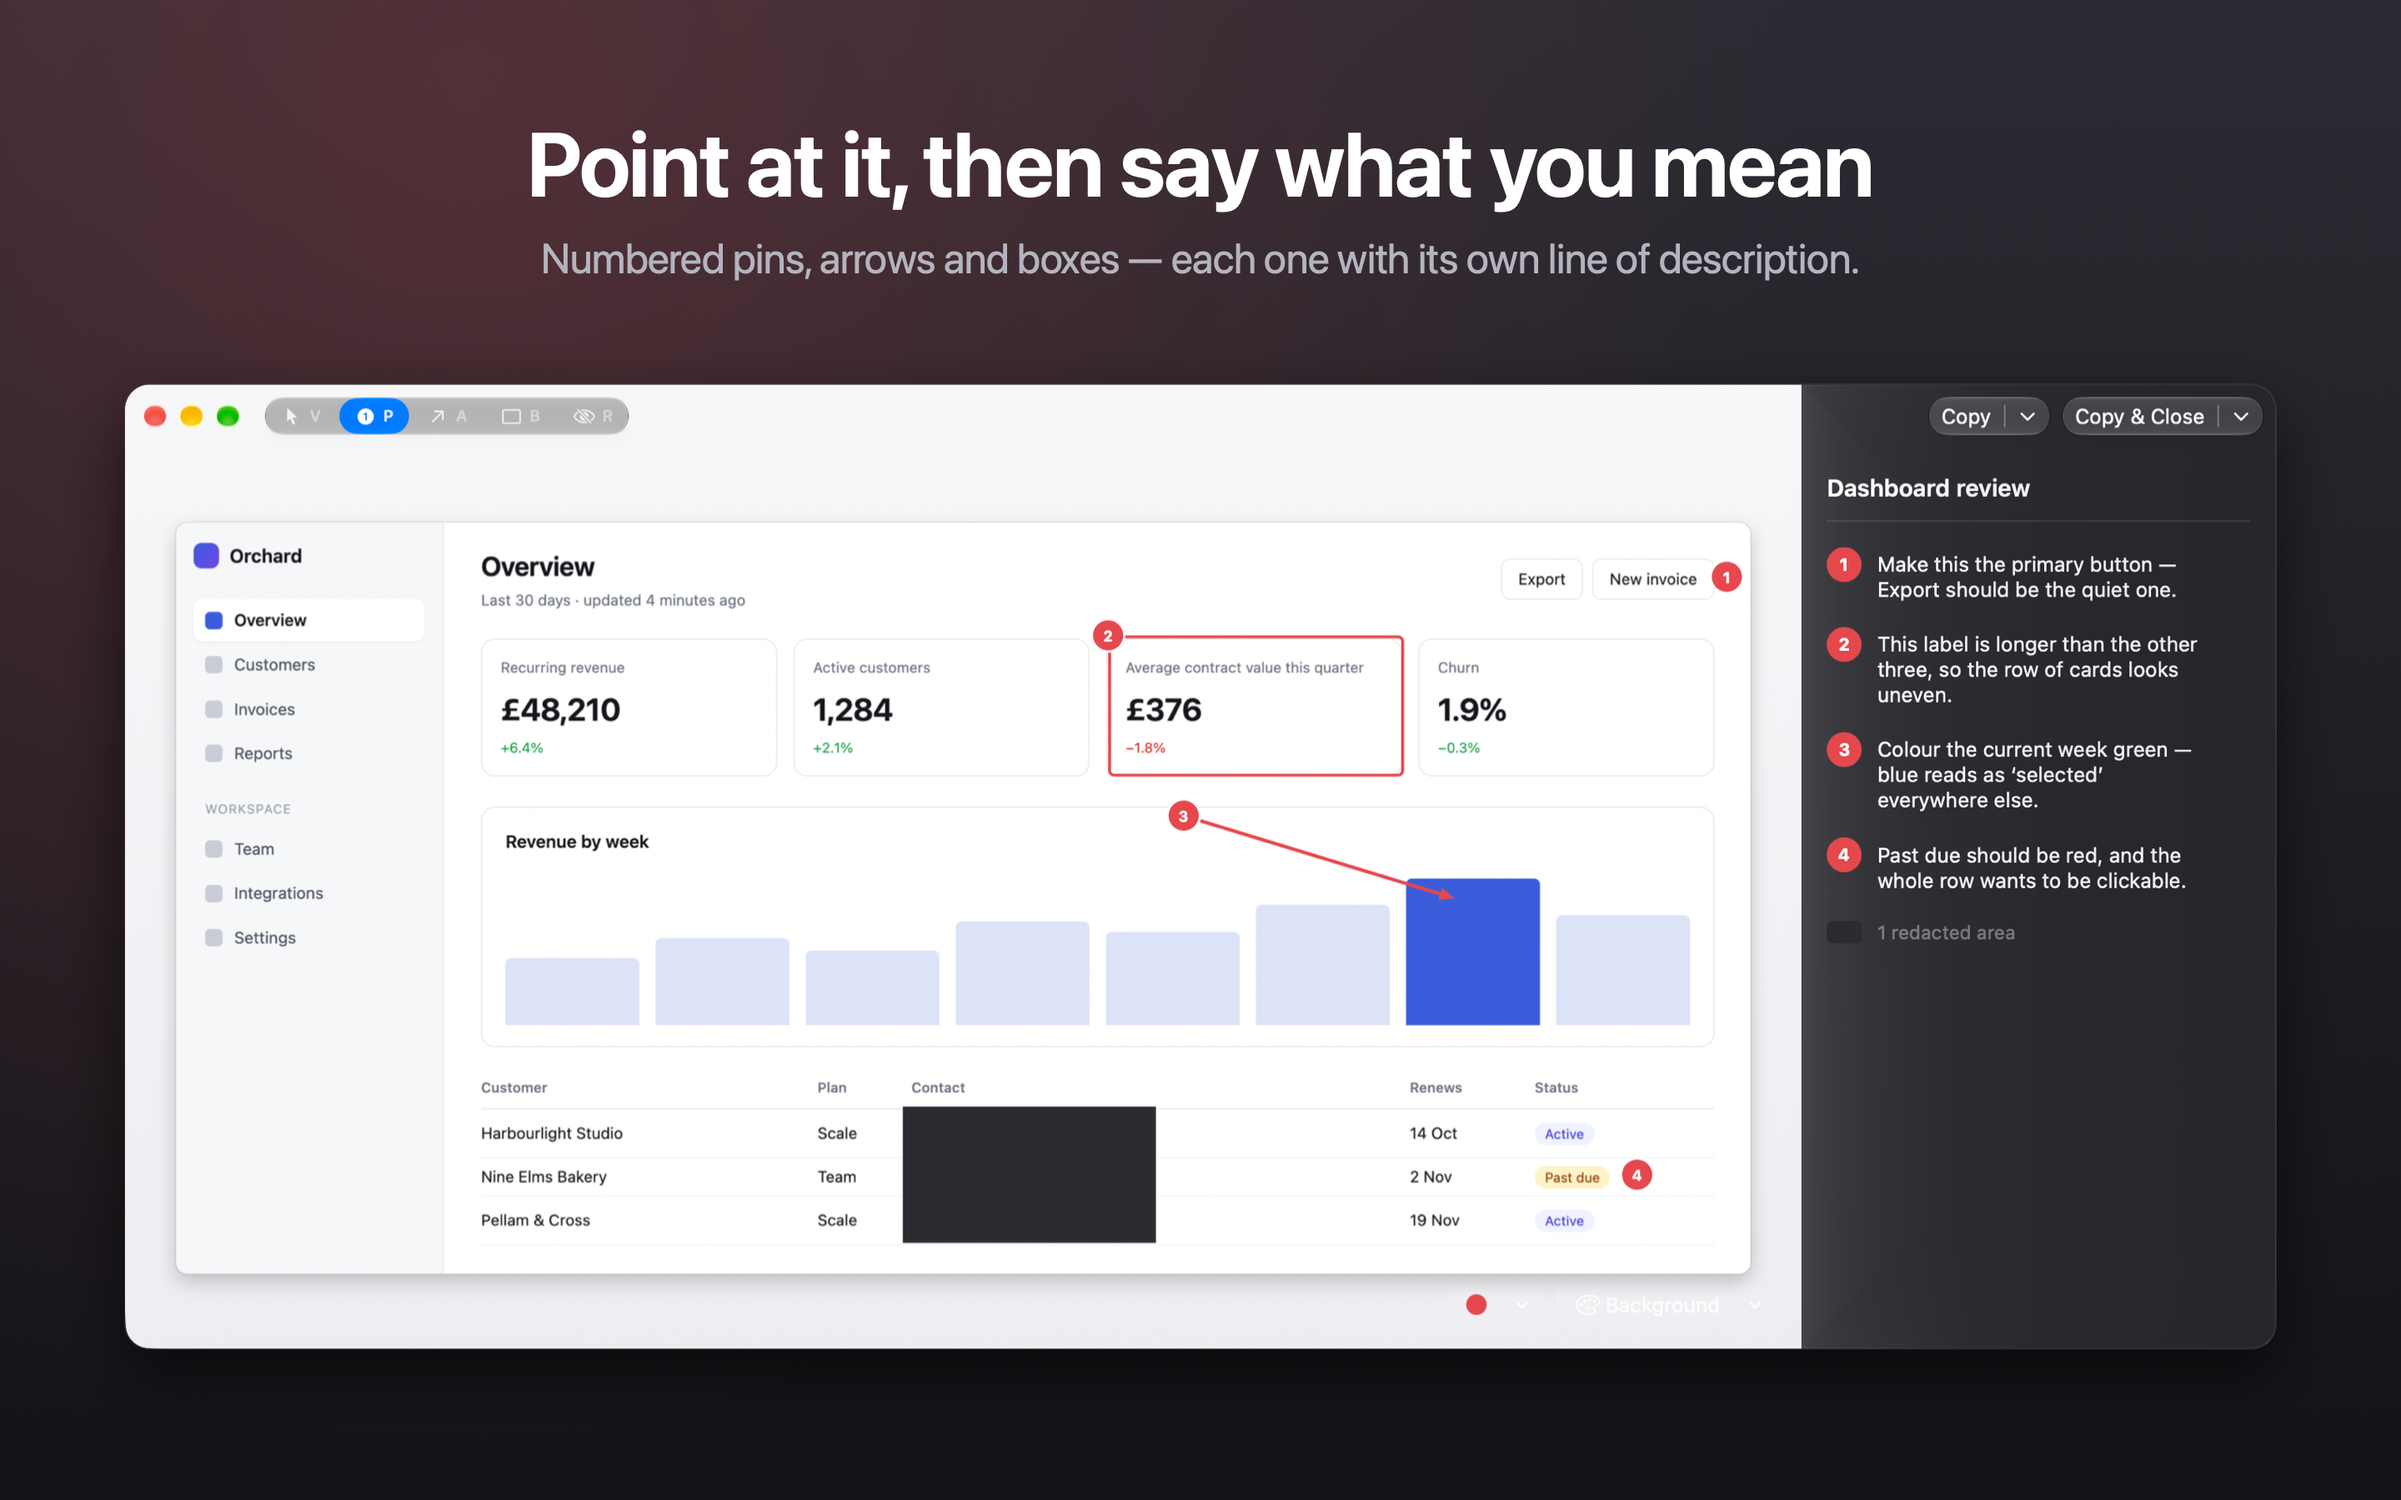
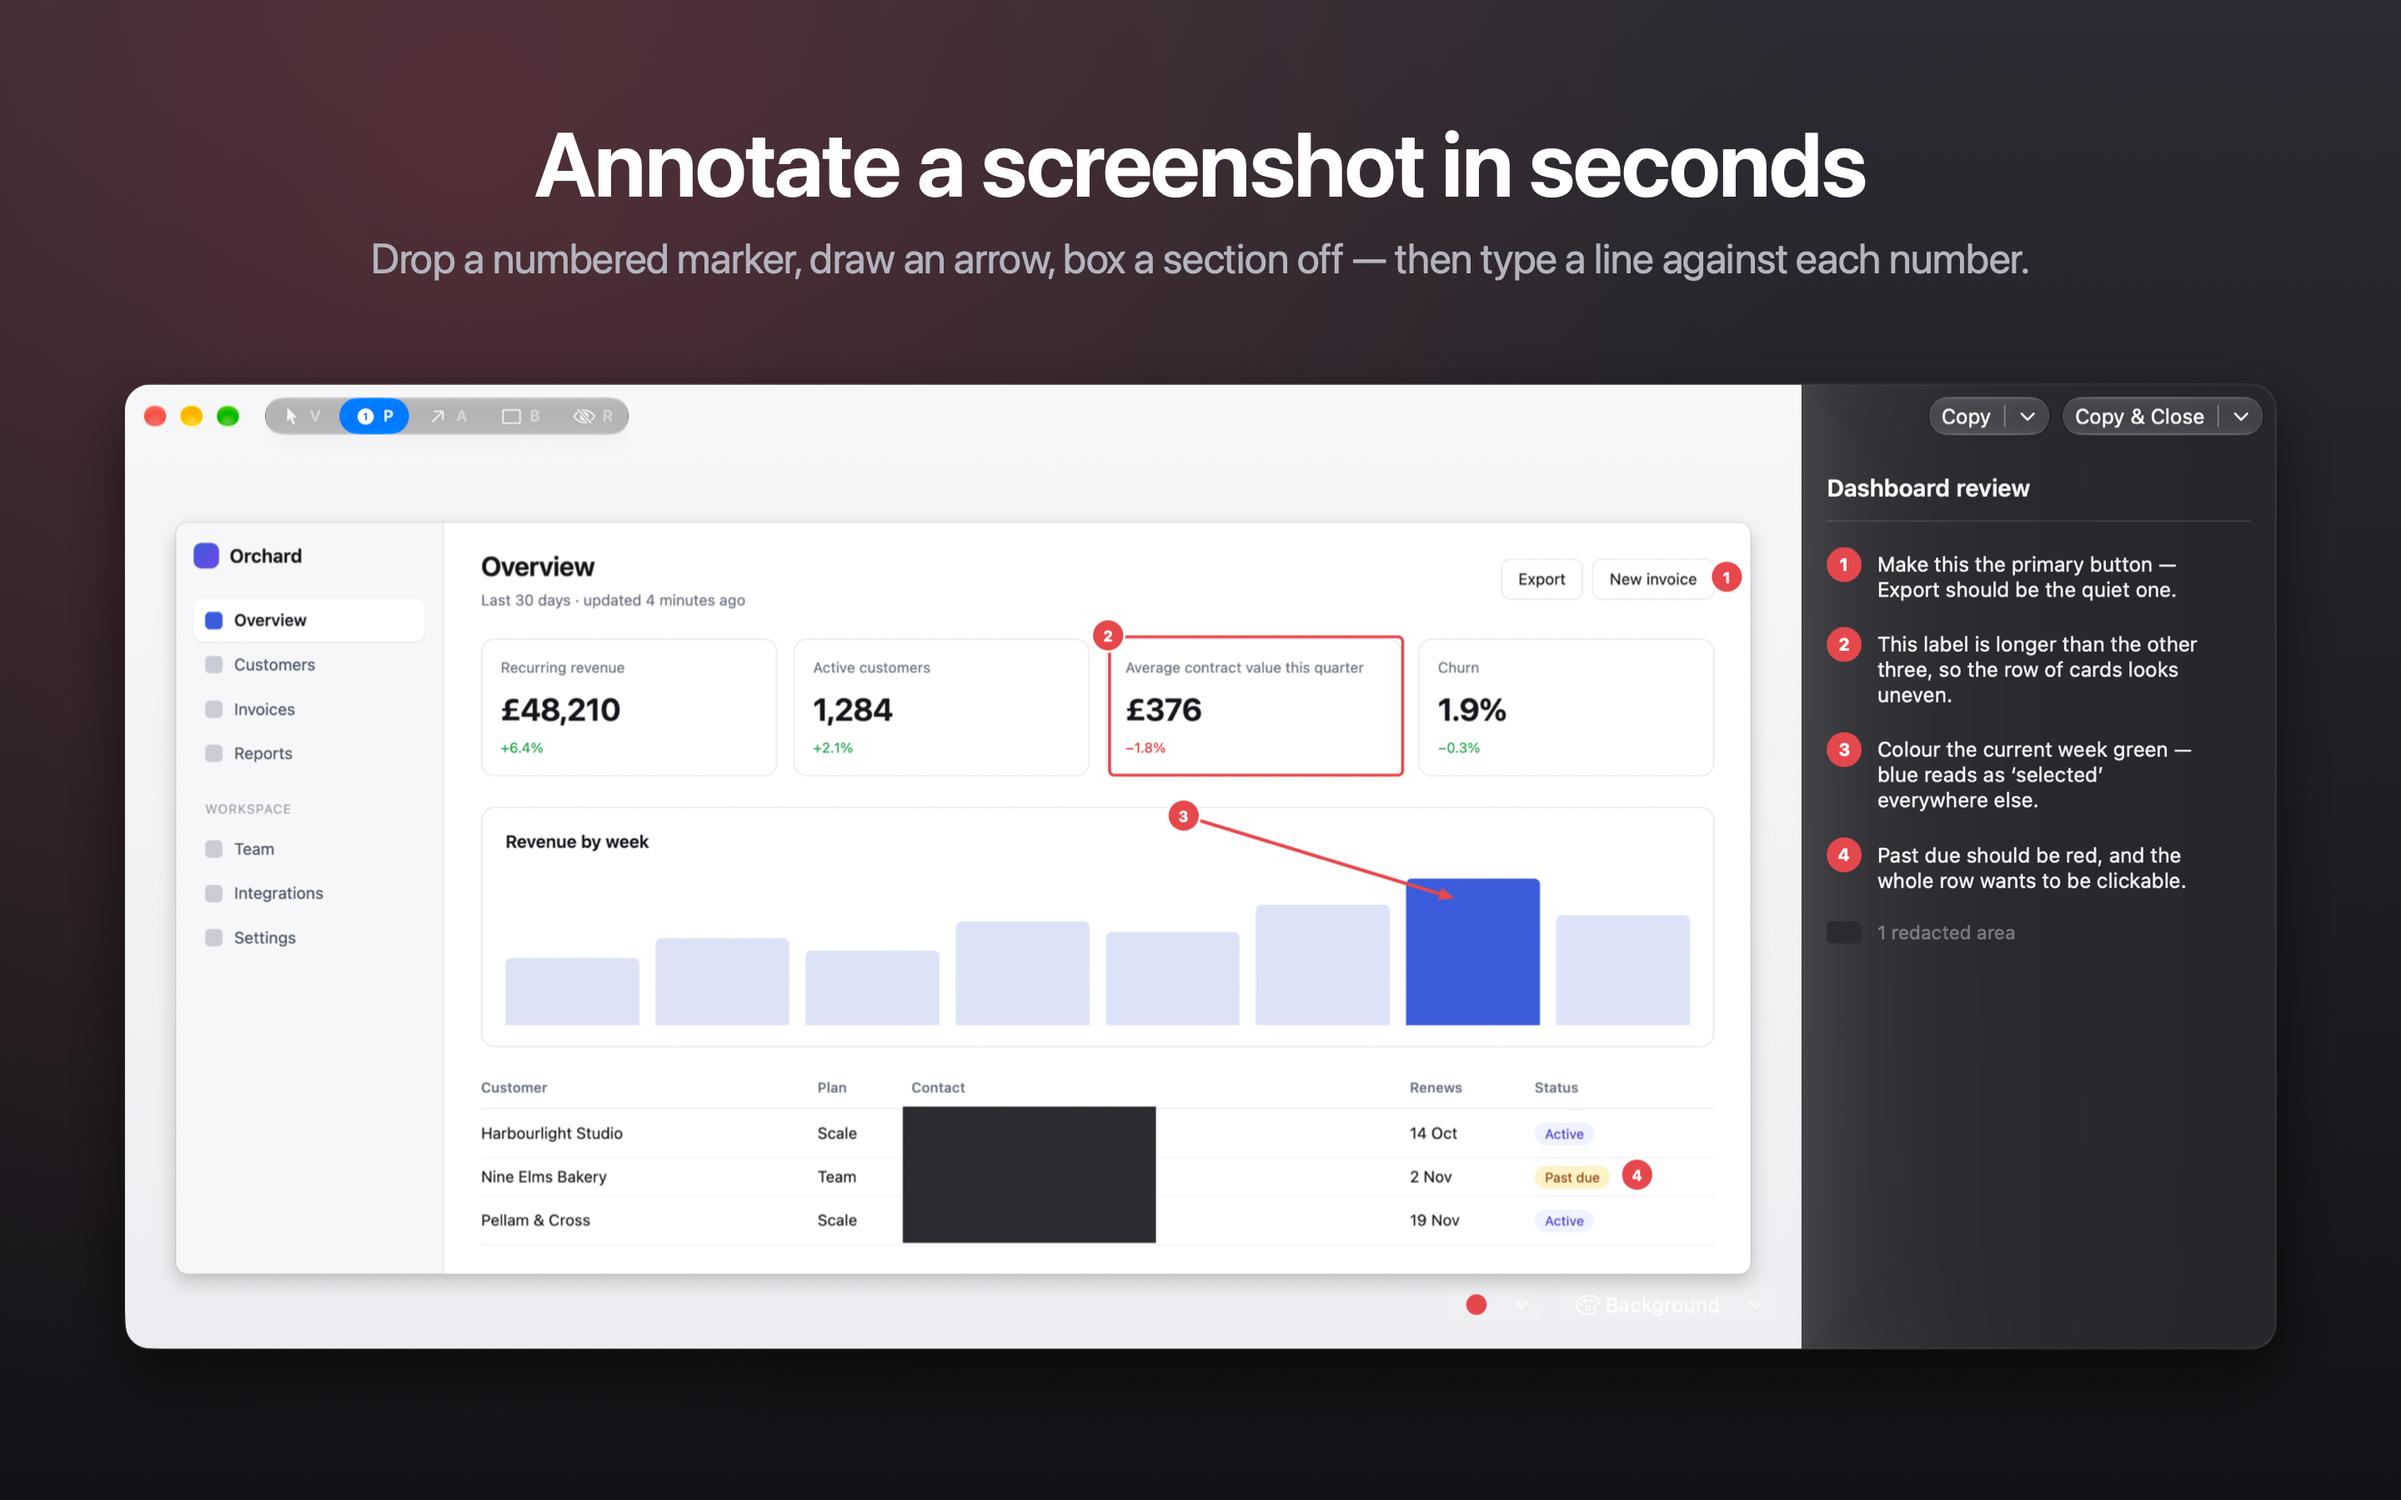
Say what the app does, not that you point at things
"Point at it" was dropped from the subtitle earlier for not making much sense,
and it had crept back into the first screenshot's headline. The description
opened the same vague way — "numbered marks on the parts you mean" — when the
concrete version is shorter: drop a marker, draw an arrow, box a section off.

Claude-Session: https://claude.ai/code/session_01FBBCUXyg1t1ZjhwtwTBr8z

Changed region(s): [[0.1562, 0.0933, 0.8438, 0.1867]]

diff --git a/scripts/make-appstore-shots.swift b/scripts/make-appstore-shots.swift
@@ -151,8 +151,8 @@ func portrait(_ file: String, _ headline: String, _ sub: String, bullets: [Strin
 // A window screencapture keeps macOS's own corner radius; the compositions are
 // square-cornered images and want the frame's radius instead.
 wide("win.png",
-     "Point at it, then say what you mean",
-     "Numbered pins, arrows and boxes — each one with its own line of description.",
+     "Annotate a screenshot in seconds",
+     "Drop a numbered marker, draw an arrow, box a section off — then type a line against each number.",
      radius: 30, to: "01-editor.png")
 
 wide("export.png",

diff --git a/appstore/listing.md b/appstore/listing.md
@@ -5,8 +5,8 @@ Connect without the line breaks a Markdown table would put in them:
 
 | Field | File | Length |
 | --- | --- | --- |
-| Promotional Text | [`promotional-text.txt`](promotional-text.txt) | 159 / 170 |
-| Description | [`description.txt`](description.txt) | 2496 / 4000 |
+| Promotional Text | [`promotional-text.txt`](promotional-text.txt) | 153 / 170 |
+| Description | [`description.txt`](description.txt) | 2633 / 4000 |
 | Keywords | [`keywords.txt`](keywords.txt) | 98 / 100 |
 | App Review notes | [`review-notes.txt`](review-notes.txt) | 1549 |
 
@@ -36,7 +36,7 @@ listing accepts (the other is 2560 × 1600). Upload them in this order:
 
 | File | Caption in the image |
 | --- | --- |
-| `01-editor.png` | Point at it, then say what you mean |
+| `01-editor.png` | Annotate a screenshot in seconds |
 | `02-result.png` | One image, with the words attached |
 | `03-redact.png` | Black out what they don't need to see |
 | `04-settings.png` | Set it up once |
